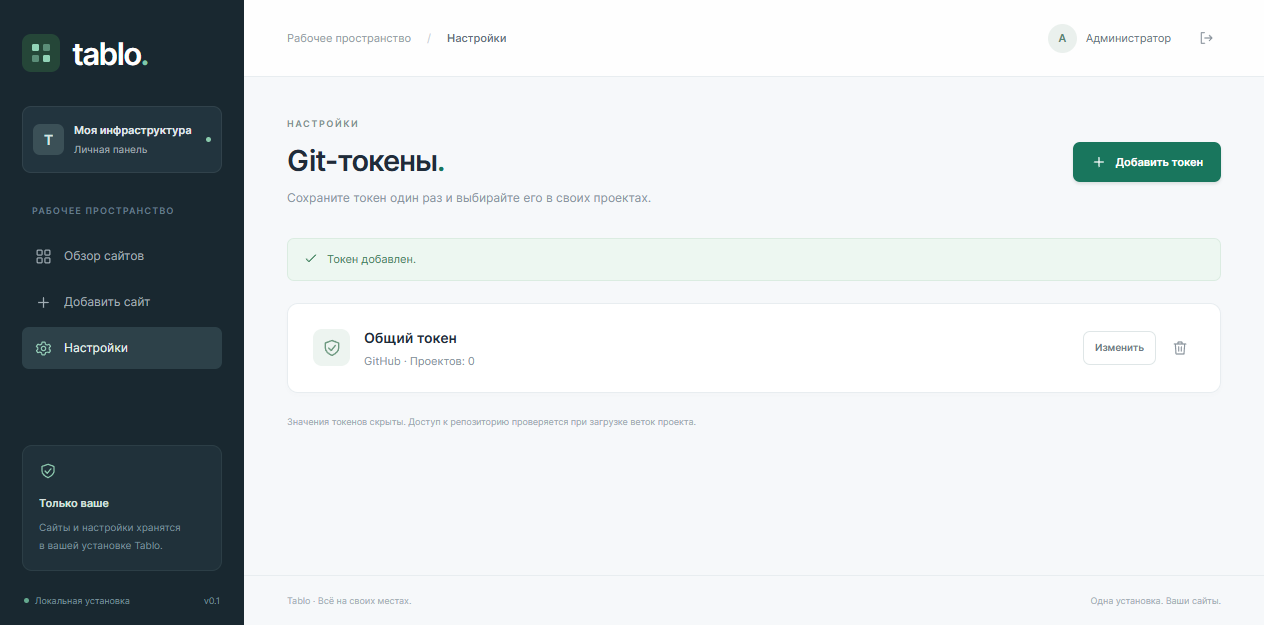
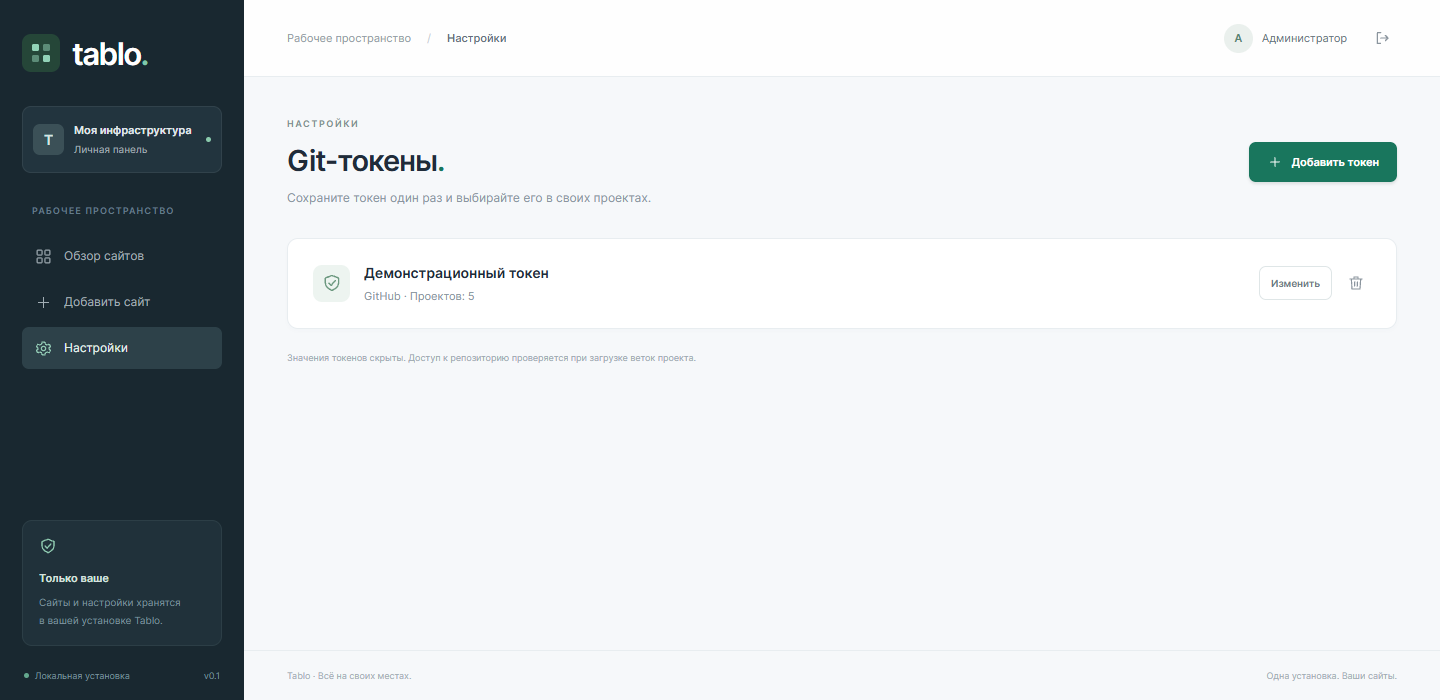
Use neutral examples in documentation screenshots

diff --git a/tests/browser-fixture.php b/tests/browser-fixture.php
@@ -4,22 +4,26 @@ declare(strict_types=1);
 require dirname(__DIR__) . '/vendor/autoload.php';
 
 // Only creates explicit browser-test fixtures, never the installation database.
-$path = dirname(__DIR__) . '/artifacts/browser.sqlite';
+$path = $argv[1] ?? dirname(__DIR__) . '/artifacts/browser.sqlite';
 if (file_exists($path)) {
     throw new RuntimeException('Browser fixture already exists; do not overwrite it.');
 }
 $db = Tablo\Database::connect($path);
 $sites = new Tablo\SiteRepository($db);
+$token = (new Tablo\GitTokenRepository($db))->save([
+    'name' => 'Демонстрационный токен', 'provider' => 'github', 'token' => 'fixture-token',
+]);
 $rows = [
-    ['Tempalog', 'https://tempalog.example', 'ichinya/tempalog', 'release', 1, 1, '1.3.1', 'v1.3.2', 'a61de82', 4, 1, 87],
-    ['Lagomer', 'https://lagomer.example', 'ichinya/lagomer', 'branch', 1, 1, null, null, 'a61de82', 7, 0, 42],
-    ['Lekalo', 'https://lekalo.example', 'ichinya/lekalo', 'release', 1, 1, '0.6.3', 'v0.6.3', 'bff005e', 12, 2, 63],
-    ['Anthill', 'https://anthill.example', 'ichinya/anthill', 'release', 1, 0, '0.8.0', 'v0.8.0', '832ab3d', 3, 0, 204],
-    ['Ariel', 'https://ariel.example', 'ichinya/ariel', 'branch', 0, null, null, null, null, null, null, null],
+    ['Storefront', 'https://store.example.com', 'example/storefront', 'release', 1, 1, '1.3.1', 'v1.3.2', 'a1b2c3d', 4, 1, 87],
+    ['Portal', 'https://portal.example.com', 'example/portal', 'branch', 1, 1, null, null, 'b2c3d4e', 7, 0, 42],
+    ['Documentation', 'https://docs.example.com', 'example/documentation', 'release', 1, 1, '2.0.0', 'v2.0.0', 'c3d4e5f', 12, 2, 63],
+    ['Service API', 'https://api.example.com', 'example/service-api', 'release', 1, 0, '0.8.0', 'v0.8.0', 'd4e5f6a', 3, 0, 204],
+    ['Demo Project', 'https://demo.example.com', 'example/demo-project', 'branch', 0, null, null, null, null, null, null, null],
 ];
 foreach ($rows as [$name, $url, $repository, $mode, $enabled, $online, $version, $release, $commit, $issues, $prs, $ms]) {
     $id = $sites->save(array_replace(Tablo\SiteRepository::defaults(), ['name' => $name, 'url' => $url,
-        'repository' => $repository, 'comparison_mode' => $mode, 'enabled' => $enabled, 'version_path' => '/version']));
+        'repository' => $repository, 'comparison_mode' => $mode, 'enabled' => $enabled,
+        'git_token_id' => $token, 'version_path' => $mode === 'branch' ? '' : '/version']));
     $sites->storeCheck($sites->find($id), ['online' => $online, 'deployed_version' => $version,
         'latest_release' => $release, 'deployed_commit' => $commit,
         'latest_commit' => $commit ? $commit . str_repeat('0', 33) : null,
@@ -27,4 +31,4 @@ foreach ($rows as [$name, $url, $repository, $mode, $enabled, $online, $version,
         'last_error' => $online === 0 ? 'Health: HTTP 503 (пример тестового состояния).' : null,
         'checked_at' => $enabled ? gmdate('Y-m-d\TH:i:s\Z') : null]);
 }
-echo "Created browser fixtures with synthetic states in artifacts/browser.sqlite.\n";
+echo "Created browser fixtures with synthetic states in " . $path . ".\n";

diff --git a/README.md b/README.md
@@ -9,8 +9,9 @@ Phalcon **6.0.0 RC2**, Volt, PHP 8.2+, SQLite. Без SPA, Redis, очереде
 
 ## Скриншоты
 
-Панель с демонстрационными сайтами и результатами проверок. Скриншоты сделаны на
-отдельной тестовой базе; реальные пароли и значения Git-токенов на них отсутствуют.
+Панель с вымышленными сайтами и результатами проверок. Скриншоты сделаны на
+отдельной тестовой базе: репозитории `example/*`, домены `*.example.com` и
+демонстрационный Git-токен. Реальные репозитории, пароли и токены не используются.
 
 ![Обзор сайтов: доступность, версии и GitHub-метрики](docs/screenshots/dashboard-desktop.png)
 
@@ -356,5 +357,15 @@ composer test
 '
 ```
 
-`tests/browser-fixture.php` создаёт только `artifacts/browser.sqlite` с явно
+`tests/browser-fixture.php` по умолчанию создаёт `artifacts/browser.sqlite` с явно
 синтетическими данными для визуальной проверки; он не меняет основную установку.
+Для отдельного каталога передайте путь явно, например:
+
+```powershell
+php tests/browser-fixture.php artifacts/screenshots-demo/browser.sqlite
+```
+
+Фикстура содержит только вымышленные проекты `example/*` и демонстрационный токен.
+Для визуальной проверки используйте `tests/web-router.php` с `TABLO_DB`, указывающим
+на эту БД, и `TABLO_TEST_RUNTIME`, указывающим на отдельный каталог сессий и кэша Volt.
+Этот router подменяет GitHub API фикстурой; реальный GitHub-токен не нужен.
